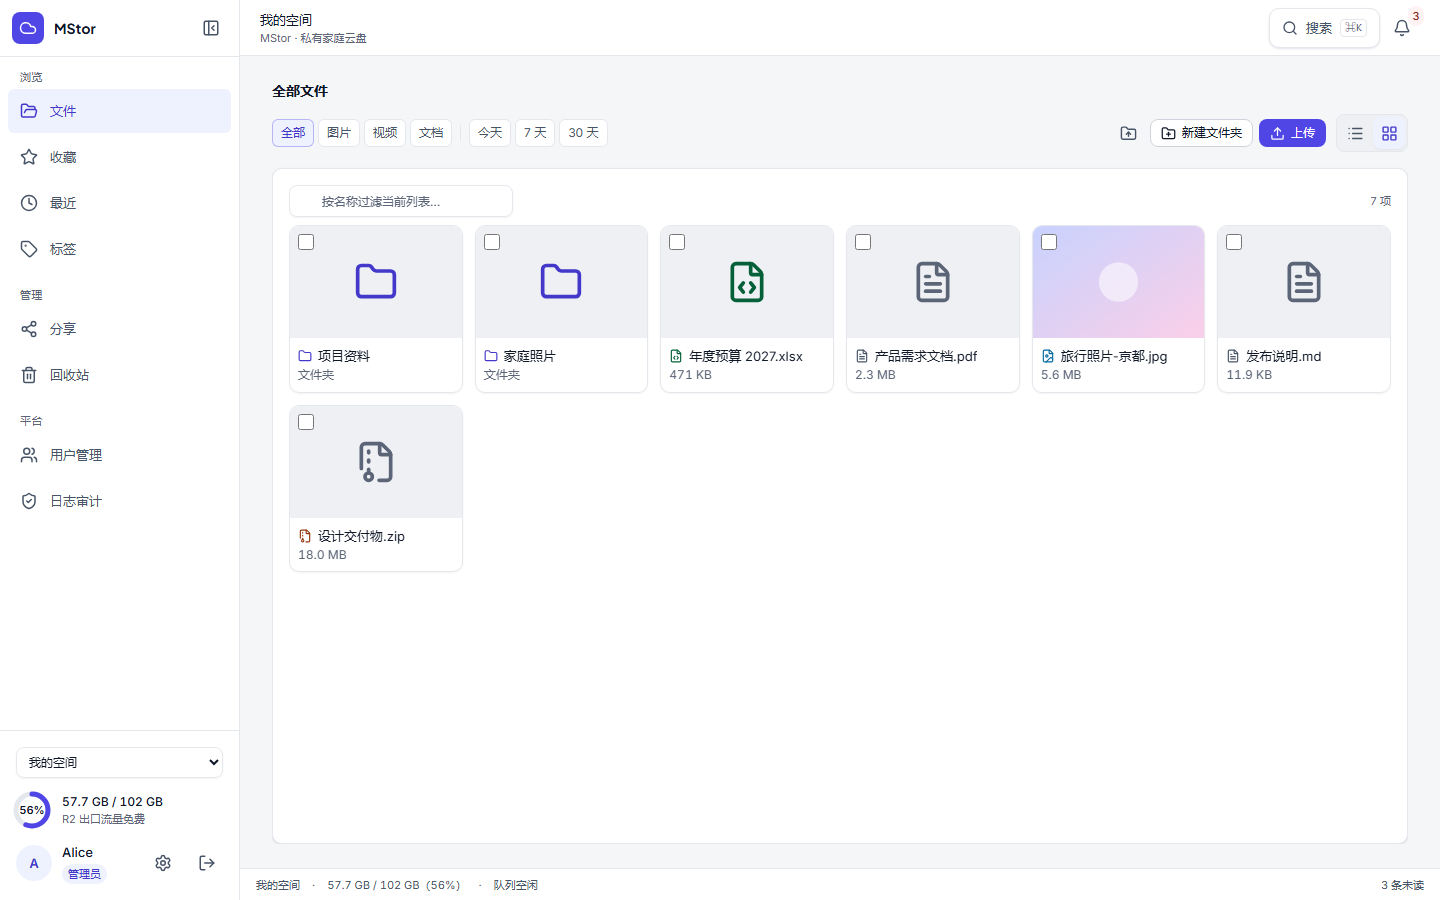
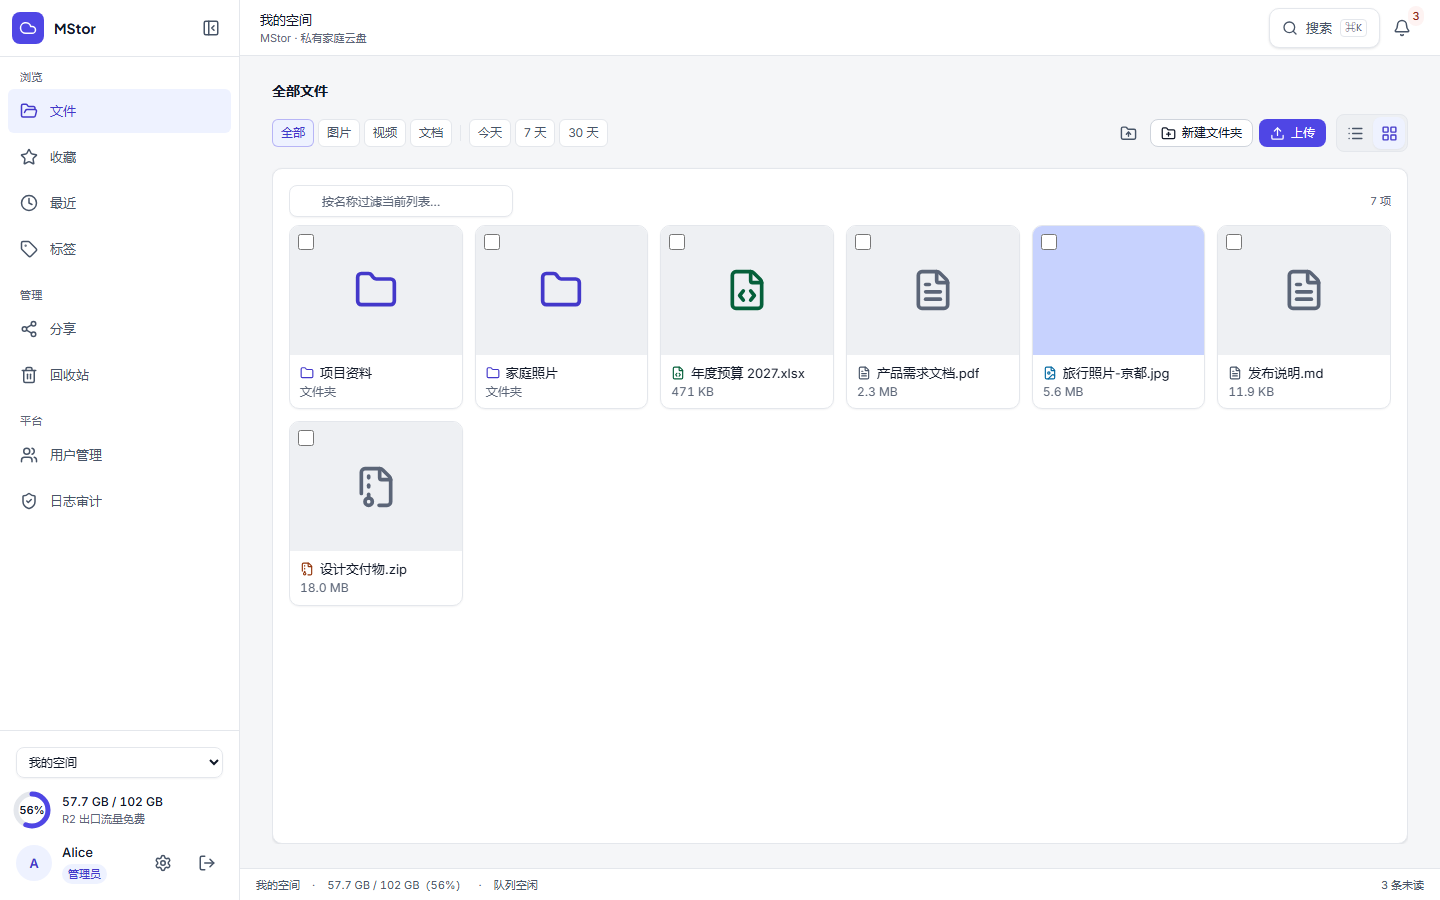
polish(grid): 缩略图统一 4:3、图片 hover 缩放与名称 title
- FileCard 缩略图区由固定 h-28 改为 aspect-[4/3]，跨断点保持统一比例
- 图片 hover 轻微 scale(1.03)；卡片名称补 title，长文件名可悬停查看
- 更新网格截图基线；visual:check 10/10；双 tsc/eslint/build 全绿

diff --git a/client/src/components/FileCard.tsx b/client/src/components/FileCard.tsx
@@ -23,14 +23,14 @@ export function FileCard({ node, thumbSrc, badge, actions }: Props) {
   return (
     <>
       <div className="block w-full text-left" title={node.name}>
-        <div className="flex h-28 items-center justify-center overflow-hidden bg-bg-sub">
+        <div className="flex aspect-[4/3] items-center justify-center overflow-hidden bg-bg-sub">
           {thumbSrc ? (
             <img
               src={thumbSrc}
               alt={node.name}
               loading="lazy"
               decoding="async"
-              className="h-full w-full object-cover"
+              className="h-full w-full object-cover transition-transform duration-(--duration-320) ease-(--ease-out-soft) group-hover:scale-[1.03]"
             />
           ) : (
             <NodeIcon node={node} size={44} className="text-ink-3" />
@@ -39,7 +39,7 @@ export function FileCard({ node, thumbSrc, badge, actions }: Props) {
         <div className="px-2.5 py-2">
           <div className="flex items-center gap-1.5">
             <NodeIcon node={node} size={14} className="shrink-0" />
-            <span className="truncate text-sm text-ink">{truncateMiddle(node.name, 20)}</span>
+            <span className="truncate text-sm text-ink" title={node.name}>{truncateMiddle(node.name, 20)}</span>
             {badge}
           </div>
           <div className="text-xs tabular-nums text-ink-faint">

diff --git a/docs/design-system.md b/docs/design-system.md
@@ -234,3 +234,9 @@ AppHeader（全端，h-14）：移动=菜单 + 品牌；桌面=当前空间 · M
 - 文件页选中多项后，批量条新增「标签」；`BatchTagDialog` 单选一个标签后追加到全部选中节点，已打过的由服务端 `INSERT OR IGNORE` 幂等去重。
 - 成功后清空选择并失效标签列表 / 各节点标签查询；不做批量移除（移除交给单节点 TagDialog 回显现状）。
 - 新增组件用例；客户端用例 253。
+
+### v7.9 网格卡片收尾
+
+- 缩略图区从固定 `h-28` 改为 `aspect-[4/3]`：不同断点下保持统一图片比例，照片/图标卡不再忽高忽低。
+- 图片 hover 轻微 `scale(1.03)`（320ms 缓动），卡片抬升与图片缩放叠加但幅度克制。
+- 卡片名称加原生 `title`，长文件名在截断后仍可悬停查看。

diff --git a/docs/ux-refactor-report.md b/docs/ux-refactor-report.md
@@ -514,7 +514,12 @@
 - 文件页多选后批量条新增「标签」；`BatchTagDialog` 选择标签后并发追加到全部选中节点，服务端幂等去重。
 - 成功后清空选择并失效标签/节点标签查询；客户端新增组件用例（共 253 例）。
 
-### 19.12 下一步视觉细化
+### 19.12 网格卡片收尾
+
+- 缩略图区固定高度改为 4:3 比例；图片 hover 轻微缩放；卡片名称补 title。
+- 视觉复核：网格卡片在 1440 下 6 列、4:3 缩略图，卡片不再出现大面积空白；`visual:check` 10/10。
+
+### 19.13 下一步视觉细化
 
 - 网格卡片与文件类型图标再收敛一轮（缩略图比例、角标位置）。
 - 设置页/平台表格的表头、行高、弹窗密度统一到 v7 节奏。
